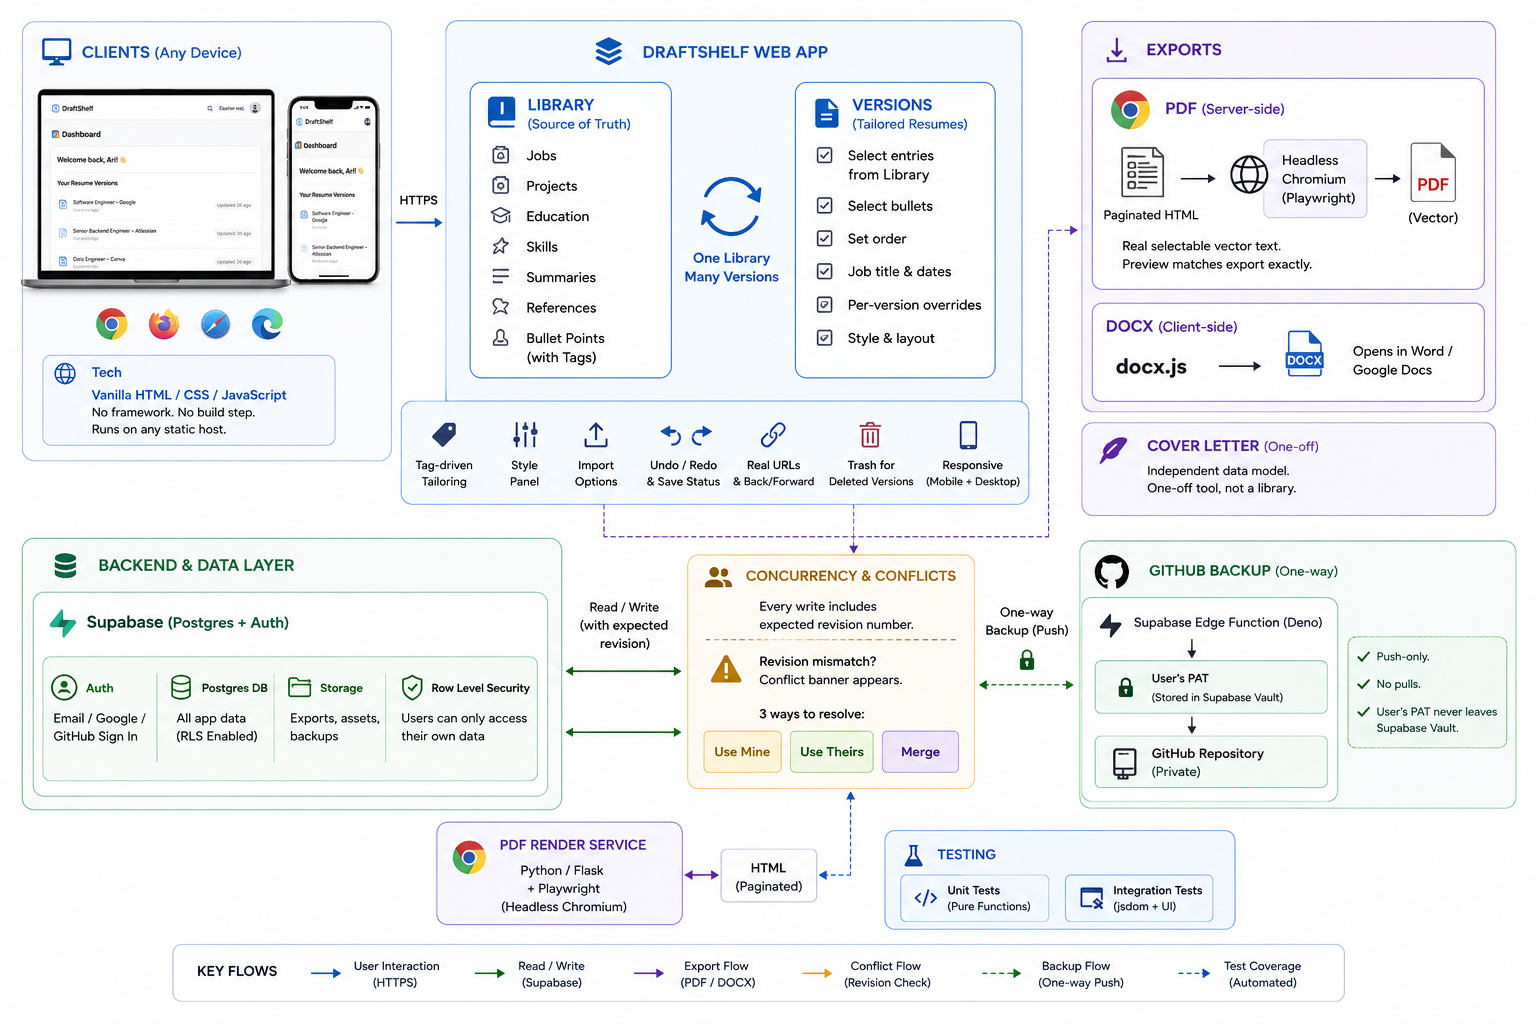
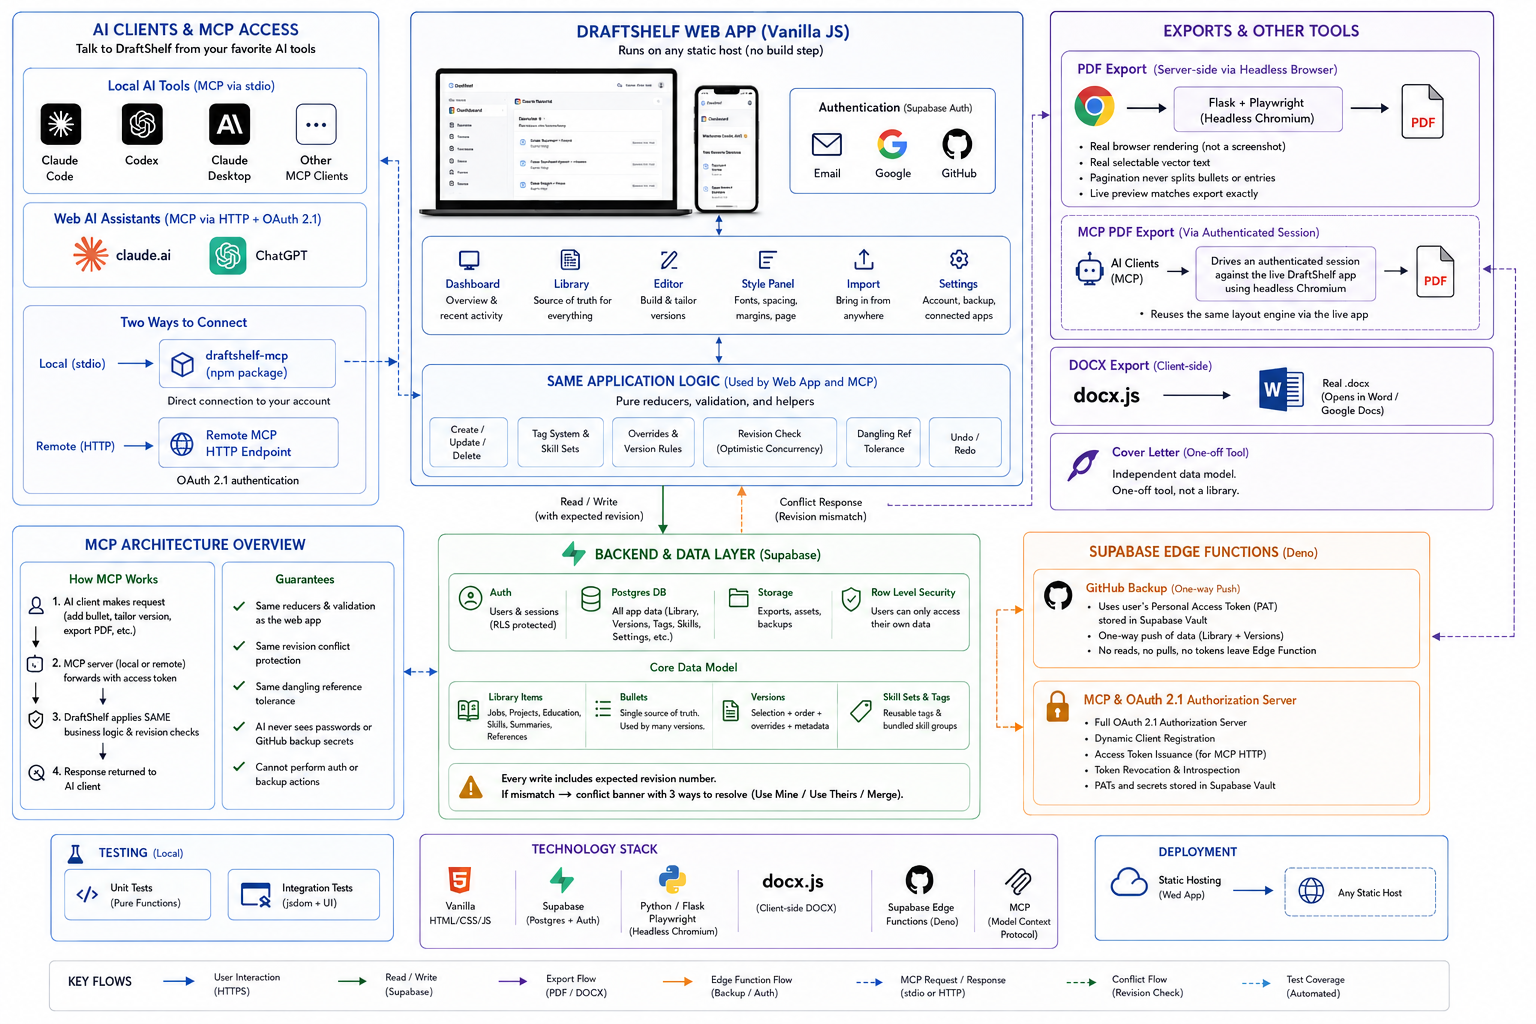
Update architecture diagram

diff --git a/README.md b/README.md
@@ -62,6 +62,8 @@ Because it's a real account with a real database behind it, it also follows you 
 
 ## Architecture
 
+<img src="assets/architecture.png" width="900"/>
+
 `paginate()` is the layout engine: it builds real DOM nodes for every resume block, measures each one's actual rendered height, and bin-packs them into pages so a heading is never orphaned alone at the bottom and an entry is never split mid-way. PDF export reuses those same already-paginated pages, sending the HTML to a server-side headless-Chromium service instead of screenshotting the browser - real vector text in, real vector text out. Every write to Supabase carries an expected revision number; a mismatch means someone else saved first, and surfaces as a conflict banner with three ways to resolve it, instead of silently overwriting a change.
 
 The MCP integration is a thin layer over the same code the web app itself runs, not a separate implementation: an AI-driven edit goes through the identical pure reducers the browser's own editor calls, so it carries the same guarantees - valid generated ids, the same dangling-reference tolerance, the same revision-conflict handling - as one made by hand. PDF export over MCP works the same way for a different reason: measuring real page layout needs a real browser, so it drives an actual signed-in session through the live app with headless Chromium rather than trying to re-render a resume's layout from scratch. The connector endpoint and its OAuth server share one clean domain, so real clients can discover and register with it automatically - no manually pasted client ID or secret required on either side.
